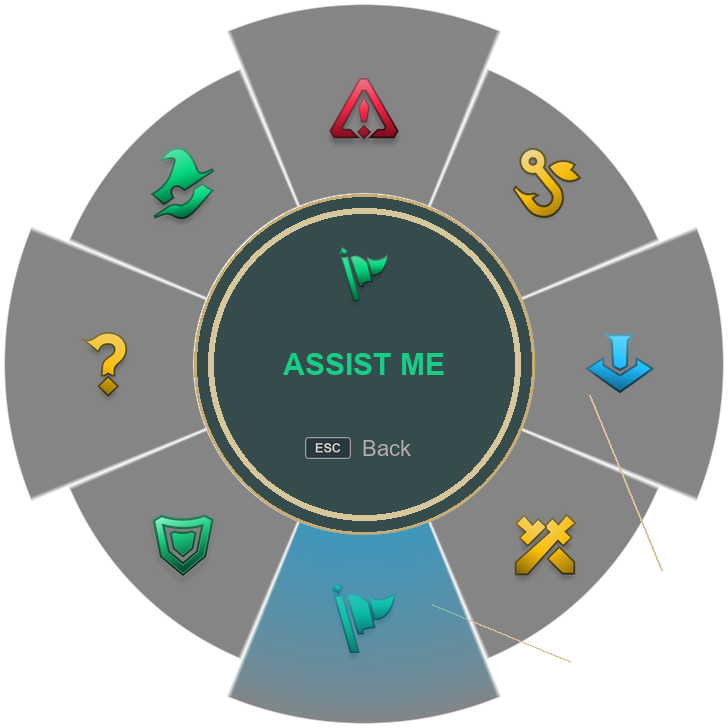
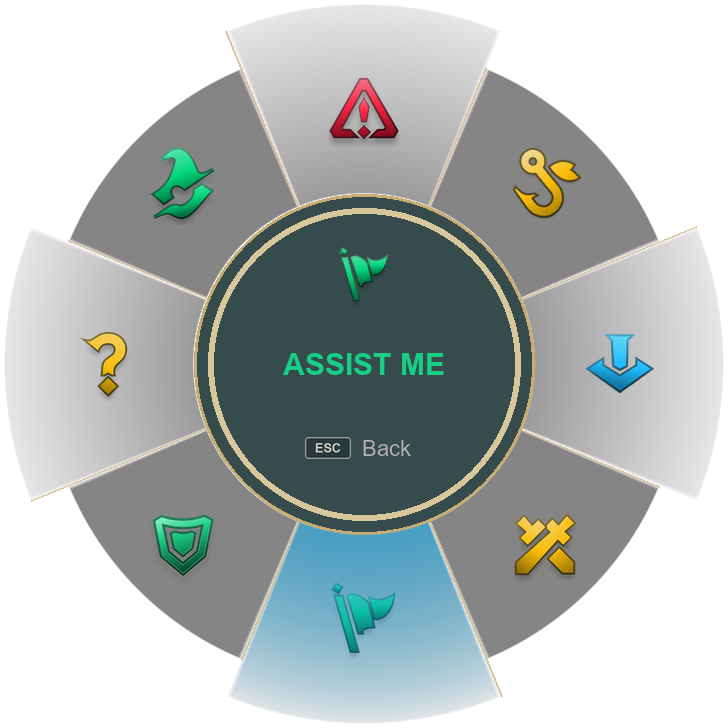
Refine cardinal wheel gradients and separators

diff --git a/scripts/generate-ui-assets.py b/scripts/generate-ui-assets.py
@@ -29,7 +29,15 @@ def sector_image(index, selected):
             if INNER <= radius <= radius_limit and angle < 45:
                 edge = min(1, angle / 0.8, (45 - angle) / 0.8, (radius - INNER) / 0.8,
                            (radius_limit - radius) / 0.8)
-                radial = max(0, 1 - (radius - INNER) / max(1, radius_limit - INNER)) ** 0.7 if selected else 1
+                distance = (radius - INNER) / max(1, radius_limit - INNER)
+                if selected:
+                    radial = max(0, 1 - distance) ** 0.7
+                elif index % 2 == 0:
+                    # Keep a subtle inner-to-outer falloff on the four
+                    # cardinal wedges while diagonals stay flat black.
+                    radial = 0.82 - 0.62 * max(0, min(1, distance))
+                else:
+                    radial = 1
                 pixels[x, y] = (*rgb, round(255 * opacity * radial * edge))
     return image
 
@@ -83,16 +91,16 @@ def paste_icon(canvas, signal, point, size):
 
 def draw_base():
     canvas = Image.new('RGBA', (CANVAS, CANVAS))
+    center = CENTER / SCALE
     for index in range(8):
         canvas.alpha_composite(Image.open(OUTPUT / f'sector-{index}-idle.png'))
     draw = ImageDraw.Draw(canvas)
     for index in range(8):
         angle = (-112.5 + index * 45) * pi / 180
         radius = sector_radius(index)
-        draw.line(((CENTER + INNER * cos(angle)) * SCALE, (CENTER + INNER * sin(angle)) * SCALE,
-                   (CENTER + radius * cos(angle)) * SCALE, (CENTER + radius * sin(angle)) * SCALE),
+        draw.line(((center + INNER * cos(angle)) * SCALE, (center + INNER * sin(angle)) * SCALE,
+                   (center + radius * cos(angle)) * SCALE, (center + radius * sin(angle)) * SCALE),
                   fill=(200, 170, 110, 180), width=2)
-    center = CENTER / SCALE
     draw.ellipse(((center - inner) * SCALE, (center - inner) * SCALE,
                   (center + inner) * SCALE, (center + inner) * SCALE),
                  fill=(11, 36, 38, 210), outline=(200, 170, 110, 250), width=3)
